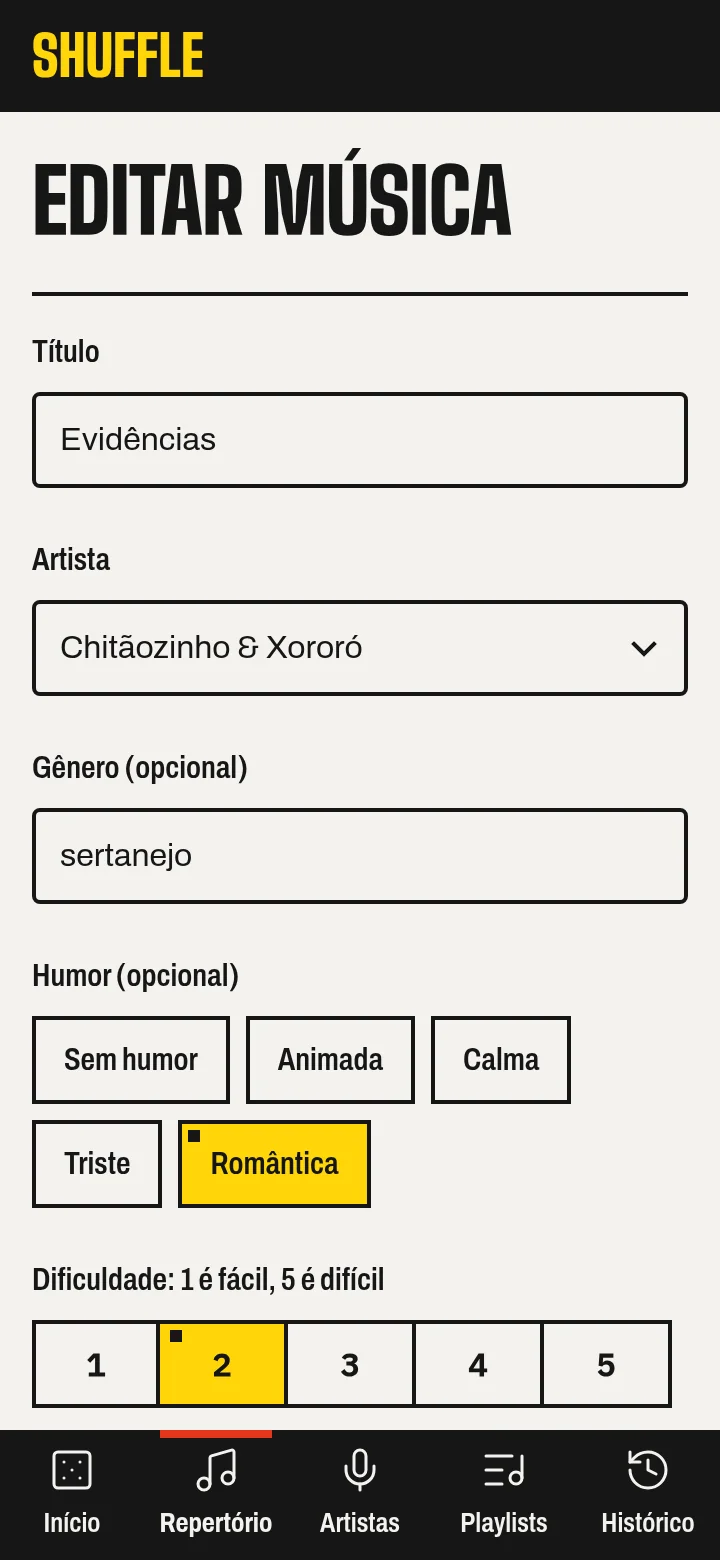
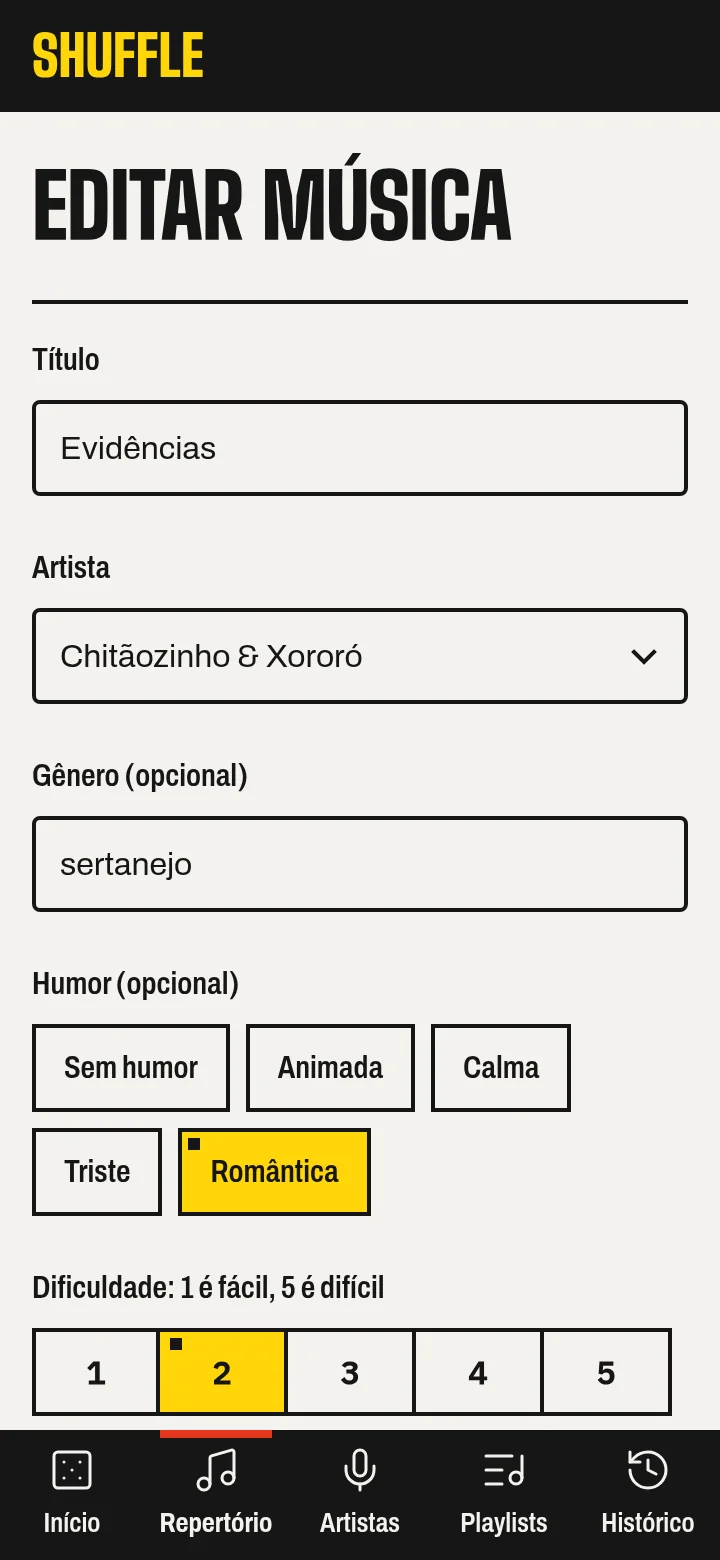
fix(texto): título da tela inicial
"Bora tocar o quê?" vira "Qual vai ser?" (a frase antiga podia soar com
duplo sentido); quebra em duas linhas a 360 e a 1440 px.

O "Ç" em "TOCAR" não estava no texto: com altura de linha 0,9, o
circunflexo do "Ê" da linha de baixo encostava no "C" de cima. Os títulos
em Big Shoulders (hero, h1, música sorteada) passam para 1,05, o que também
resolve outros títulos acentuados em duas linhas ("CONDOMÍNIO",
"ESTATÍSTICAS"). design.md do design system, teste da tela inicial e os 10
screenshots atualizados.

diff --git a/shuffle_meu/static/style.css b/shuffle_meu/static/style.css
@@ -138,7 +138,7 @@ h1, h2, .display {
   text-wrap: balance;
   overflow-wrap: anywhere;
 }
-h1 { font-size: var(--t-44); font-weight: 900; line-height: 0.95; letter-spacing: -0.01em; margin-bottom: var(--espaco-5); }
+h1 { font-size: var(--t-44); font-weight: 900; line-height: 1.05; letter-spacing: -0.01em; margin-bottom: var(--espaco-5); }
 h2 { font-size: var(--t-28); font-weight: 800; line-height: 1; }
 @media (min-width: 720px) { h1 { font-size: var(--t-72); } }
 
@@ -452,7 +452,7 @@ form.inline { display: inline-flex; gap: var(--espaco-2); margin: 0; }
 .com-unidade input { width: 6rem; flex: none; font-family: var(--fonte-mono); font-variant-numeric: tabular-nums; }
 .unidade { color: var(--tinta-2); }
 /* Início: composição de cartaz, alinhada à esquerda */
-.hero { font-size: var(--t-72); line-height: 0.9; text-wrap: initial; }
+.hero { font-size: var(--t-72); line-height: 1.05; text-wrap: initial; }
 @media (min-width: 720px) { .hero { font-size: var(--t-120); } }
 .inicio-principal .sortear { margin-bottom: var(--espaco-6); }
 .inicio-lado { margin-top: var(--espaco-7); }
@@ -509,7 +509,7 @@ form.inline { display: inline-flex; gap: var(--espaco-2); margin: 0; }
 .resultado .revelavel { display: grid; justify-items: start; gap: var(--espaco-4); }
 .resultado-topo { display: flex; align-items: end; gap: var(--espaco-4); }
 .resultado-titulo { display: flex; flex-wrap: wrap; align-items: center; gap: var(--espaco-3) var(--espaco-5); }
-.titulo-sorteado { margin: 0; font-size: var(--t-72); line-height: 0.9; }
+.titulo-sorteado { margin: 0; font-size: var(--t-72); line-height: 1.05; } /* abaixo de ~1 o acento da linha de baixo encosta na de cima (Ê sob C virava Ç) */
 .titulo-longo { font-size: var(--t-44); }
 @media (min-width: 720px) {
   .titulo-sorteado { font-size: var(--t-120); }

diff --git a/shuffle_meu/templates/inicio.html b/shuffle_meu/templates/inicio.html
@@ -4,7 +4,7 @@
 {% block titulo %}Início{% endblock %}
 {% block conteudo %}
 {% if not tem_musicas %}
-<h1 class="hero">Bora<br> tocar o<br> quê?</h1>
+<h1 class="hero">Qual<br> vai ser?</h1>
 <section class="cartao">
   {{ vazio("Cadastre sua primeira música", "Sem música no caderno, não tem sorteio.",
            url_for("musicas.nova"), "Nova música") }}
@@ -12,7 +12,7 @@
 {% else %}
 <div class="inicio">
   <form class="inicio-principal" method="post" action="{{ url_for('sorteio.sortear') }}">
-    <h1 class="hero">Bora<br> tocar o<br> quê?</h1>
+    <h1 class="hero">Qual<br> vai ser?</h1>
     <button class="primario sortear">Sortear</button>
     <div class="cartao campos filtros">
       {{ chips("humor", "Humor", HUMORES.items(), f.humor, "Todos") }}

diff --git a/tests/test_sorteio.py b/tests/test_sorteio.py
@@ -287,6 +287,8 @@ class TestSorteio(BaseTest):
         html = self.texto(self.client.get("/"))
         self.assertIn("Sua última música aparece aqui", html)
         self.assertNotIn("Última sorteada:", html)
+        self.assertIn('<h1 class="hero">Qual<br> vai ser?</h1>', html)
+        self.assertNotIn("tocar o", html.lower())
         self.sorteio(1)
         html = self.texto(self.client.get("/"))
         self.assertIn("Última sorteada: Tempo Perdido — Legião Urbana", html)

diff --git a/openspec/changes/archive/2026-11-22-refaz-identidade-visual/design.md b/openspec/changes/archive/2026-11-22-refaz-identidade-visual/design.md
@@ -70,7 +70,7 @@ O vermelho `#E4371E` dá 3,85:1 com papel nos dois sentidos, e o sucesso `#1E7F4
 
 ### D5. Caixa alta só por CSS
 
-Títulos de tela, o hero, a música sorteada, a marca e o carimbo ficam em caixa normal no HTML ("Bora tocar o quê?", "Tempo Perdido", "Shuffle") e viram caixa alta com `text-transform: uppercase`. Leitores de tela leem a palavra normalmente, e os testes que conferem textos (`<h1 class="titulo-sorteado">Tempo Perdido</h1>`) continuam válidos.
+Títulos de tela, o hero, a música sorteada, a marca e o carimbo ficam em caixa normal no HTML ("Qual vai ser?", "Tempo Perdido", "Shuffle") e viram caixa alta com `text-transform: uppercase`. Leitores de tela leem a palavra normalmente, e os testes que conferem textos (`<h1 class="titulo-sorteado">Tempo Perdido</h1>`) continuam válidos.
 
 ### D6. Escala tipográfica em degraus, sem `clamp()`
 
@@ -116,7 +116,7 @@ Os textos citados nas specs ficam **iguais** (são o contrato que os testes conf
 |---|---|---|
 | Mensagem da RN05 (spec) | Nenhuma música encontrada com esses filtros. Tente afrouxar os filtros. | Nada com esse filtro. Tira algum? |
 | Atalho de ativa (rótulo) | Ativa | Ativa / Fora do sorteio |
-| Título da tela inicial | O que tocar agora? | Bora tocar o quê? |
+| Título da tela inicial | O que tocar agora? | Qual vai ser? (antes "Bora tocar o quê?", trocado em 23/11 por soar com duplo sentido) |
 | Início sem músicas (frase) | O sorteio começa quando o repertório tem pelo menos uma música. | Sem música no caderno, não tem sorteio. |
 | Bloco de espera (frase) | Depois do primeiro sorteio, ela fica guardada neste cartão. | Sorteia a primeira e ela fica anotada. |
 | Repertório vazio, sem filtro (frase) | Tente outra busca ou limpe os filtros. | O caderno ainda está em branco. Anota a primeira que você sabe tocar. (+ botão "Nova música") |
@@ -172,9 +172,9 @@ Escala única: **14 / 16 / 20 / 28 / 44 / 72 / 120 px**. Quando há dois valores
 
 | Papel | Fonte | Tamanho | Detalhes |
 |---|---|---|---|
-| Hero da tela inicial | Big Shoulders Display 900 | 72 / 120 | caixa alta, altura de linha 0,9, tracking −0,01em, quebra em 2–3 linhas |
-| Música sorteada | Big Shoulders Display 900 | 72 / 120 (longa: 44 / 72) | caixa alta, altura de linha 0,9, tracking −0,01em |
-| Título de tela (h1) | Big Shoulders Display 900 | 44 / 72 | caixa alta, altura de linha 0,95 |
+| Hero da tela inicial | Big Shoulders Display 900 | 72 / 120 | caixa alta, altura de linha 1,05, tracking −0,01em, quebra em 2 linhas (`Qual<br> vai ser?`) |
+| Música sorteada | Big Shoulders Display 900 | 72 / 120 (longa: 44 / 72) | caixa alta, altura de linha 1,05, tracking −0,01em |
+| Título de tela (h1) | Big Shoulders Display 900 | 44 / 72 | caixa alta, altura de linha 1,05 |
 | Título de seção (h2) | Big Shoulders Display 800 | 28 | caixa alta |
 | Marca "SHUFFLE" | Big Shoulders Display 900 | 28 | amarelo sobre a faixa de tinta |
 | Botão "Sortear" | Big Shoulders Display 900 | 44 / 72 | caixa alta, papel sobre vermelho |
@@ -190,7 +190,7 @@ Escala única: **14 / 16 / 20 / 28 / 44 / 72 / 120 px**. Quando há dois valores
 | Métricas | IBM Plex Mono 500, `tabular-nums` | 44 / 72 | |
 | Números em listas, dificuldade, contadores, datas | IBM Plex Mono 400, `tabular-nums` | 14–16 | |
 
-Caixa alta só por `text-transform` (D5). Caixa alta só no display (≥ 28 px) e nas etiquetas de 14 px; rótulos, botões comuns e navegação ficam em caixa normal.
+Altura de linha mínima de 1,05 nos títulos em Big Shoulders: abaixo de ~1, o acento de uma maiúscula da linha de baixo encosta na letra de cima (o circunflexo de "QUÊ" sob o "C" de "TOCAR" parecia um "Ç"). Caixa alta só por `text-transform` (D5). Caixa alta só no display (≥ 28 px) e nas etiquetas de 14 px; rótulos, botões comuns e navegação ficam em caixa normal.
 
 ### Layout
 
@@ -206,9 +206,9 @@ Início, a partir de 960 px
 │ SHUFFLE   Início   Repertório   Artistas   Playlists   Histórico     │ faixa de tinta
 │           ▀▀▀▀▀▀ régua vermelha na aba atual                         │
 └──────────────────────────────────────────────────────────────────────┘
-  BORA                                         ▱┌────────────────────┐▱  fita
-  TOCAR O                                       │ Última sorteada:   │
-  QUÊ?                    (120 px, à esquerda)  │ [TP] Tempo Perdido │
+  QUAL                                         ▱┌────────────────────┐▱  fita
+  VAI SER?                                      │ Última sorteada:   │
+                          (120 px, à esquerda)  │ [TP] Tempo Perdido │
   ┌───────────────────────────────┐             │ — Legião Urbana    │
   │  SORTEAR                      │▌ impressão  │ 22/11 21:04        │
   └───────────────────────────────┘             └────────────────────┘
@@ -222,9 +222,9 @@ Início, 360 px                      Resultado, 360 px
 ┌──────────────────────┐            ┌──────────────────────┐
 │ SHUFFLE              │ faixa      │ SHUFFLE              │
 ├──────────────────────┤            ├──────────────────────┤
-│ BORA                 │ 72 px      │▱┌──────────────────┐▱│
-│ TOCAR O              │            │ │[TP] 22/11 21:04  │ │
-│ QUÊ?                 │            │ │ TEMPO   ╱TOCA   ╱│ │
+│ QUAL                 │ 72 px      │▱┌──────────────────┐▱│
+│ VAI SER?             │            │ │[TP] 22/11 21:04  │ │
+│                      │            │ │ TEMPO   ╱TOCA   ╱│ │
 │ ┌──────────────────┐ │            │ │ PERDIDO╱ ESSA! ╱ │ │
 │ │ SORTEAR          │▌│ largura    │ │ Legião Urbana    │ │
 │ └──────────────────┘ │ total      │ │ [Abrir link]     │ │
